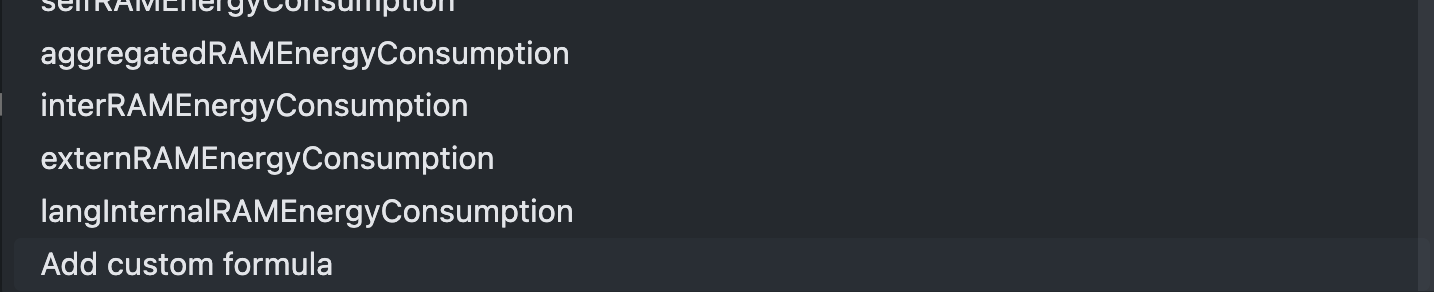
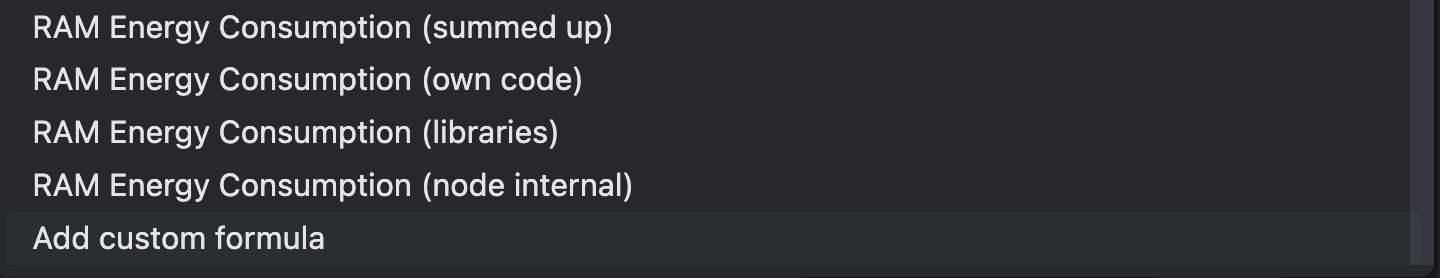
update sensor value type names in docs + update doc images

diff --git a/docs/SensorValues.md b/docs/SensorValues.md
@@ -6,33 +6,33 @@ The Oaklean VS Code Extension provides insights into the resource consumption of
 
 # Execution Scopes
 To better understand where high resource usage originates, we categorize the measurements as follows:
-- **internal:** Code of the project being measured.
-- **external:** Code of a Node module that is imported and used in the project being measured.
-- **langInternal:** Code of the programming language itself or standard libraries integrated into the Node runtime environment.
+- **own code:** Code of the project being measured.
+- **libraries:** Code of a Node module that is imported and used in the project being measured.
+- **node internal:** Code of the programming language itself or standard libraries integrated into the Node runtime environment.
 
 # Sensor Value Types
 
 ![Sensor Values](../images/docs/sensor-values-overview.png)
 
 To interpret sensor values, we should look at their naming conventions. Except for the value **profilerHits**, each sensor value follows this naming convention:
-`<prefix><type-of-resource>`
+`<type-of-resource> (<category>)`
 
 > **profilerHits**: In addition to resource consumption values, there is a measurement value called **profilerHits**. This does not describe a resource used by the application but rather how often the CPU profiler, used to measure CPU time, detected a certain source code location.
 
-### Prefixes
-There are currently five prefixes:
-- **self:** Indicates how much resource consumption originates from the source code location itself.
-- **internal:** Indicates how much resource consumption originates from the invocation of internal functions.
-- **external:** Indicates how much resource consumption originates from the invocation of external functions.
-- **langInternal:** Indicates how much resource consumption originates from the invocation of langInternal functions.
-- **aggregated:** Includes all the above categories.
+### Categories
+There are currently five categories:
+- **self:** Indicates how much resource consumption originates from the source code location **itself**.
+- **own code:** Indicates how much resource consumption originates from the invocation of functions of **your code**.
+- **libraries:** Indicates how much resource consumption originates from the invocation of **library** functions.
+- **node internal:** Indicates how much resource consumption originates from the invocation of **node internal** functions.
+- **summed up:** Includes all the above categories.
 
 ### Types of Resources
 
 Currently, three types of resources are measured:
-- **CPU time**
-- **CPU energy consumption**
-- **RAM energy consumption**
+- **CPU Time**
+- **CPU Energy Consumption**
+- **RAM Energy Consumption**
 
 ### Example
 Sensor values are stored at specific source code locations. In the example below, we interpret the sensor values of the method `isProgramStructureType`.
@@ -43,12 +43,46 @@ Given the example above, the measurements describe the following:
 
 | Sensor Value Type                | Description |
 |----------------------------------|-------------|
-| **self**CPUEnergyConsumption         | How much CPU energy was consumed by the method `isProgramStructureType` **itself**.            |
-| **intern**CPUEnergyConsumption       | How much CPU energy was consumed by **internal** methods that were directly or indirectly called by the method `isProgramStructureType`.            |
-| **extern**CPUEnergyConsumption       | How much CPU energy was consumed by **external** methods that were directly or indirectly called by the method `isProgramStructureType`.            |
-| **langInternal**CPUEnergyConsumption | How much CPU energy was consumed by **langInternal** methods that were directly or indirectly called by the method `isProgramStructureType`.            |
-| **aggregated**CPUEnergyConsumption   | How much CPU energy was consumed in total; this is the sum of all the values above.            |
+| CPU Energy Consumption (**self**)         | How much CPU energy was consumed by the method `isProgramStructureType` **itself**.            |
+| CPUEnergyConsumption (**own code**)       | How much CPU energy was consumed by methods **of your code** that were directly or indirectly called by the method `isProgramStructureType`.            |
+| CPU Energy Consumption (**libraries**)       | How much CPU energy was consumed by **library** methods that were directly or indirectly called by the method `isProgramStructureType`.            |
+| CPUEnergyConsumption (**node internal**) | How much CPU energy was consumed by **node internal** methods that were directly or indirectly called by the method `isProgramStructureType`.            |
+| CPU Energy Consumption (**summed up**)   | How much CPU energy was consumed in total; this is the sum of all the values above.            |
 
+# Custom Formula
+Users can create a custom representation of the measurement data with a mathematically valid formula. The formula may only contain mathematical symbols, names of the measurement data, and numbers.
 
+Below is a list of all available variable names of the measurement data. The naming convention is:
+`<prefix><type-of-resource>`
 
+## Prefixes
+Prefixes are directly correspondent to the [categories](#categories) listed above
+- self = **self**
+- intern = **own code**
+- extern = **libraries**
+- langInternal = **node internal**
+- aggregated = **summed up**
 
+## All available variable names of the measurement data are:
+| Variable Name                		| Unit  |
+|---------------------------------|-------|
+| profilerHits										| 			|
+| selfCPUTime											| µs		|
+| aggregatedCPUTime								| µs		|
+| internCPUTime										| µs		|
+| externCPUTime										| µs		|
+| langInternalCPUTime							| µs		|
+| selfCPUEnergyConsumption				| mJ		|
+| aggregatedCPUEnergyConsumption	| mJ		|
+| internCPUEnergyConsumption			| mJ		|
+| externCPUEnergyConsumption			| mJ		|
+| langInternalCPUEnergyConsumption| mJ		|
+| selfRAMEnergyConsumption				| mJ		|
+| aggregatedRAMEnergyConsumption	| mJ		|
+| internRAMEnergyConsumption			| mJ		|
+| externRAMEnergyConsumption			| mJ		|
+| langInternalRAMEnergyConsumption| mJ		|
+
+### Example Formulas
+- A formula to establish the relationship between CPU energy consumption and CPU time: `selfCPUEnergyConsumption/selfCPUTime`
+- A formula to detect the functions/methods with the highest proportionate library energy consumption: `externCPUEnergyConsumption/aggregatedCPUEnergyConsumption`

diff --git a/docs/SelectSensorValue.md b/docs/SelectSensorValue.md
@@ -3,6 +3,7 @@
 The red-framed button in the picture allows users to select the measurement data to be displayed. Selecting a type changes the display of the measurement values in the left panel under [file tree](./FileTree.md) view and [project method list](./ProjectMethodList.md) view as well as in the lower panel in the [file method list](./FileMethodList.md).
 
 At the end of the list, "Add custom formula" can be selected. Users can create a custom representation of the measurement data with a mathematically valid formula. The formula may only contain mathematical symbols, names of the measurement data, and numbers. If the formula is incorrect, the previously selected value is retained.
+For more details on interpreting sensor values and using the **custom formula** feature read [here](./SensorValues.md)
 
 <img src="../images/docs/sensor-value-select.png" alt="Sensor Value Select" width="600"/>
 <img src="../images/docs/sensor-values.png" alt="Sensor Values" width="600"/>
